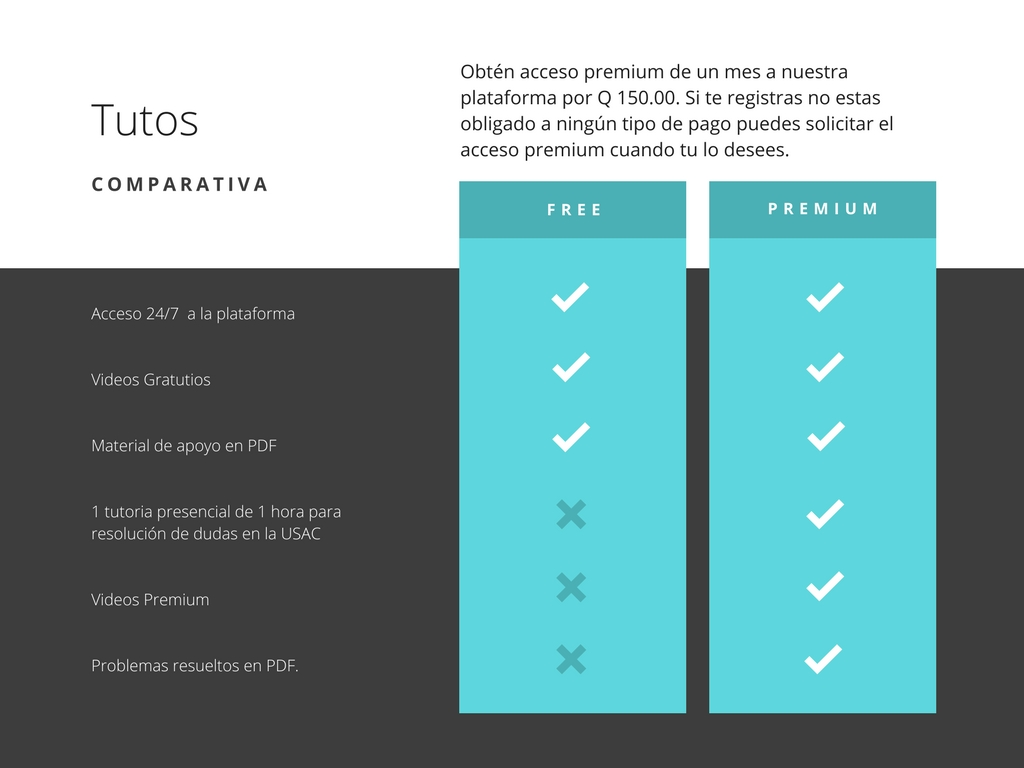
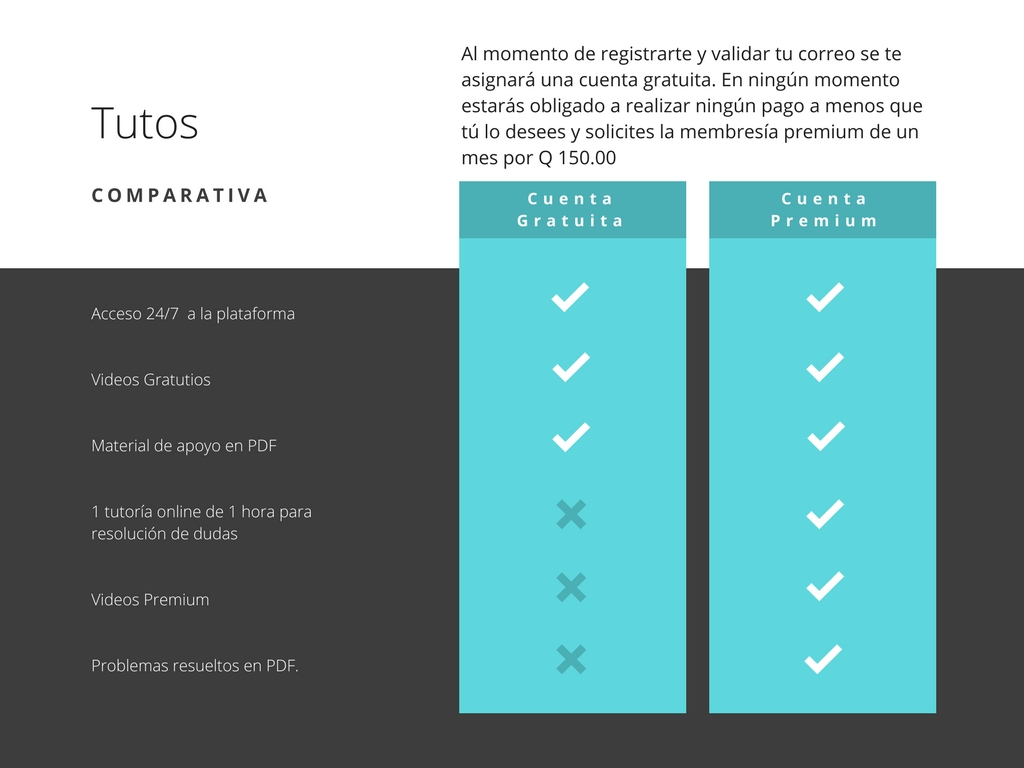
Modificacion de cuenta oficial de correo electronico y cambios realizados en interfaz de pagina principal

diff --git a/resources/views/welcome.blade.php b/resources/views/welcome.blade.php
@@ -24,8 +24,52 @@
     </style>
 @endsection
 
+@section('begin')
+    <li><a href="#begin_option">Inicio</a></li>
+@endsection
+
+@section('sliding_options')
+
+<script src="http://ajax.googleapis.com/ajax/libs/jquery/1.4.2/jquery.min.js"
+type="text/javascript" charset="utf-8"></script>
+
+<script >
+    $(function(){
+
+     $('a[href*=#]').click(function() {
+
+     if (location.pathname.replace(/^\//,'') == this.pathname.replace(/^\//,'')
+         && location.hostname == this.hostname) {
+
+             var $target = $(this.hash);
+
+             $target = $target.length && $target || $('[name=' + this.hash.slice(1) +']');
+
+             if ($target.length) {
+
+                 var targetOffset = $target.offset().top;
+
+                 $('html,body').animate({scrollTop: targetOffset}, 1000);
+
+                 return false;
+
+            }
+
+       }
+
+   });
+
+});
+</script>
+
+    <li><a href="#more_info_option">Informarción</a></li>
+    <li><a href="#benefits_option">Beneficios</a></li>
+    <li><a href="#characteristics_option">Características</a></li>
+
+@endsection
+
 @section('content')
-<div class="header header-filter" style="background-image: url('/img/m1.jpg');">
+<div class="header header-filter" style="background-image: url('/img/m1.jpg');" id="begin_option">
     <div class="container">
         <div class="row">
             @if (session('notification'))
@@ -47,25 +91,27 @@
 
 <div class="main main-raised">
     <div class="container">
-        <div class="section text-center section-landing">
+        <div class="section text-center section-landing" id="more_info_option">
 
             <div class="row">
                 <div class="col-md-8 col-md-offset-2">
                     <h2 class="text-center title">¿Por qué TutosGT?</h2>
-                    <h5 class="description">Todo nuestro material ha sido elaborado en base a exámenes de admisión de la Universidad de San Carlos de Guatemala. Te enseñamos cómo se resuelven los problemas planteados correctamente y de una forma rápida.</h5>
+                    <h5 class="text">Todo nuestro material ha sido elaborado en base a exámenes de admisión de la Universidad de San Carlos de Guatemala. Te enseñamos la forma correcta y rápida de resolver los problemas planteados.</h5>
                 </div>
             </div>
 
             <div class="row">
                 <div class="col-md-8 col-md-offset-2">
                     <h2 class="text-center title">¿Cómo funciona?</h2>
-                    <h5 class="description">1.- Registrate para tener acceso a nuestro material, animate es completamente gratis.</h5>
-                    <h5 class="description">2.- Estudia y repasa el contenido las veces que desees.</h5>
-                    <h5 class="description">3.- Si en algun momento lo deseas puedes volverte usuario premium para obtener mayores beneficios.</h5>
+                    <h5 class="text">1.- Debes registrarte en nuestra plataforma con tu nombre y correo electrónico. ¡Animate es completamente gratis!.</h5>
+                    <h5 class="text">2.- Enviaremos a tu correo electrónico un enlace de confirmación. Deberás dar clic al enlace e inmediatamente tendrás acceso a todo nuestro material gratuito.</h5>
+                    <h5 class="text">3.- Estudia y repasa nuestro material las veces que lo desees.</h5>
+                    <h5 class="text">4.- Si en algún momento deseas tener acceso a material y beneficios adicionales, puedes solicitar tu membresía premium de 1 mes por Q 150.00 .</h5>
+                    <h5 class="text">5.- Cualquier duda, comentario, queja o sugerencia puedes hacerla llegar a nuestra página oficial de facebook o al correo: tutoriasgtoficial@gmail.com y con mucho gusto te atenderemos.</h5>
                 </div>
             </div>
 
-            <div class="section landing-section">
+            <div class="section landing-section" id="benefits_option">
                 <div class="row">
                     <div class="col-md-8 col-md-offset-2">
                         <h2 class="text-center title">Beneficios que brindamos</h2>
@@ -74,7 +120,7 @@
                 </div>
             </div>
 
-            <div class="section landing-section">
+            <div class="section landing-section" id="characteristics_option">
                 <h2 class="text-center title">Nuestras caracteristicas</h2>
                 <div class="row">
                     <div class="col-md-4">
@@ -83,7 +129,7 @@
                                 <i class="material-icons">chat</i>
                             </div>
                             <h4 class="info-title">Atendemos tus dudas</h4>
-                            <p>Atendemos rápidamente cualquier consulta que tengas vía chat en nuestra página oficial de facebook. No estás solo, siempre estamos atentos a tus inquietudes.</p>
+                            <h4> <small>Atendemos rápidamente cualquier consulta que tengas vía chat en nuestra página oficial de facebook. No estás solo, siempre estamos atentos a tus inquietudes.</small></h4>
                         </div>
                     </div>
                     <div class="col-md-4">
@@ -92,7 +138,7 @@
                                 <i class="material-icons">verified_user</i>
                             </div>
                             <h4 class="info-title">Pago seguro</h4>
-                            <p>Cuando desees tener acceso premium a nuestra plataforma nunca te solicitaremos tarjeta de credito ni debito, ya que manejaremos los pagos por medio de deposito bancario.</p>
+                            <h4> <small> Cuando desees tener acceso premium a nuestra plataforma nunca te solicitaremos tarjeta de credito ni debito, ya que manejaremos los pagos por medio de deposito bancario.</small> </h4>
                         </div>
                     </div>
                     <div class="col-md-4">
@@ -101,24 +147,22 @@
                                 <i class="material-icons">important_devices</i>
                             </div>
                             <h4 class="info-title">Acceso multiplataforma</h4>
-                            <p>Podrás acceder a nuestro sitio desde cualquier dispositivo que disponga de una conexión a internet.</p>
+                            
+                            <h4> <small> Podrás acceder a nuestro sitio desde cualquier dispositivo que disponga de una conexión a internet.</small></h4>
                         </div>
                     </div>
                 </div>
             </div>
 
             <div class="container">
-                <h5 class="description">
+                <h5 class="text">
                     “Aprender es como remar contra corriente: en cuanto se deja, se retrocede.” - Edward Benjamin Britten.
                 </h5>
             </div>
 
-            
         </div>
 
     </div>
-
-
 </div>
 
 @include('includes.footer')

diff --git a/resources/views/users/bepremium.blade.php b/resources/views/users/bepremium.blade.php
@@ -31,7 +31,7 @@
             @endif
 
             <div class="text">
-                Ingresa el código que te fue proporcionado para tener un acceso premium a nuestra plataforma. Si aún no tienes ningún código comunicate con nosotros a través de un mensaje en nuestra página de facebook y con gusto te indicaremos los pasos a seguir.
+                Ingresa el código que te fue proporcionado para tener un acceso premium a nuestra plataforma. Si aún no tienes ningún código comunicate con nosotros a través de un mensaje en nuestra página de facebook o escribe a nuestro correo tutoriasgtoficial@gmail.com y con gusto te indicaremos los pasos a seguir.
             </div>
             
             <form method="post" action="{{ url('/users/premium/' . auth()->user()->id ) }}" >

diff --git a/app/Notifications/ResetPasswordNotification.php b/app/Notifications/ResetPasswordNotification.php
@@ -52,7 +52,7 @@ class ResetPasswordNotification extends Notification
             ->line('Recibió este email porque se solicitó un reestablecimiento de contraseña para su cuenta.')
             ->action('Reestablecer contraseña', url(config('app.url').route('password.reset', $this->token, false)))
             ->line('Si no realizó esta petición, puede ignorar este email y nada habrá cambiado.')
-            ->line('Por favor no responda este correo si tiene alguna duda escribanos a: tutosgtoficial@gmail.com')
+            ->line('Por favor no responda este correo si tiene alguna duda escribanos a: tutoriasgtoficial@gmail.com')
             ->salutation('¡Saludos!');
     }
 }

diff --git a/resources/views/admin/tickets/create.blade.php b/resources/views/admin/tickets/create.blade.php
@@ -43,9 +43,9 @@
                 <div class="row">
                     <div class="col-sm-6">
                         <div class="form-group label-floating">
-                            <label class="control-label">Fecha de pago</label>
+                            
                             <!-- markup -->
-                            <input class="datepicker form-control" type="text" value="" name="payday" data-date-format="yyyy-mm-dd"/>
+                            <input class="datepicker form-control" type="text" value="" name="payday" data-date-format="yyyy-mm-dd" placeholder="fecha de deposito" />
 
                         </div>
                     </div>

diff --git a/resources/views/layouts/app.blade.php b/resources/views/layouts/app.blade.php
@@ -37,7 +37,13 @@
 
             <div class="collapse navbar-collapse" id="navigation-example">
                 <ul class="nav navbar-nav navbar-right">
-                    <li><a href="{{ url('/') }}">Inicio</a></li>
+                    
+                    @section('begin')
+                        <li><a href="{{ url('/') }}">Inicio</a></li>
+                    @show
+                    
+                    @yield('sliding_options')
+
                     @guest
                         <li><a href="{{ route('login') }}">Ingresar</a></li>
                         <li><a href="{{ route('register') }}">Registro</a></li>

diff --git a/resources/views/auth/register.blade.php b/resources/views/auth/register.blade.php
@@ -10,6 +10,13 @@
                 <div class="card card-signup">
                     <form class="form" method="POST" action="{{ route('register') }}">
                         {{ csrf_field() }}
+                        
+                        @if (session('notification'))
+                            <div class="alert alert-success">
+                                {{ session('notification') }}
+                            </div>
+                        @endif
+
                         <div class="header header-primary text-center">
                             <h4>Registro</h4>
                         </div>

diff --git a/resources/views/home.blade.php b/resources/views/home.blade.php
@@ -26,7 +26,7 @@
             @endif
 
             <div class="text">
-                Cualquier duda, comentario, sugerencia o queja no dudes en contactarnos a través de nuestra página oficial en facebook o escribenos a tutosgtoficial@gmail.com
+                Cualquier duda, comentario, sugerencia o queja no dudes en contactarnos a través de nuestra página oficial en facebook o escribenos a tutoriasgtoficial@gmail.com
             </div>
         </div>
 

diff --git a/app/Http/Controllers/Auth/RegisterController.php b/app/Http/Controllers/Auth/RegisterController.php
@@ -74,8 +74,8 @@ class RegisterController extends Controller
         ]);
 
         Mail::send('emails.confirmation_code', $data, function($message) use ($data) {
-            $message->to($data['email'], $data['name'])->subject('Por favor confirma tu correo');
-        });
+                    $message->to($data['email'], $data['name'])->subject('Por favor confirma tu correo');
+                });
 
         return $user;
     }

diff --git a/resources/views/emails/confirmation_code.blade.php b/resources/views/emails/confirmation_code.blade.php
@@ -12,6 +12,6 @@
         Clic para confirmar tu email
     </a>
 
-    <p>No responda a este correo si tiene alguna duda o inconveniente escribanos en nuestra pagina oficial de facebook o a tutosgtoficial@gmail.com</p>
+    <p>No responda a este correo si tiene alguna duda o inconveniente escribanos en nuestra pagina oficial de facebook o a tutoriasgtoficial@gmail.com</p>
 </body>
 </html>

diff --git a/resources/views/documents/free.blade.php b/resources/views/documents/free.blade.php
@@ -22,6 +22,7 @@
 	                        <h6>{{ $document->description }}</h6>
 	                    </div>
                     @endforeach
+
                     
                 </div>
             </div>
